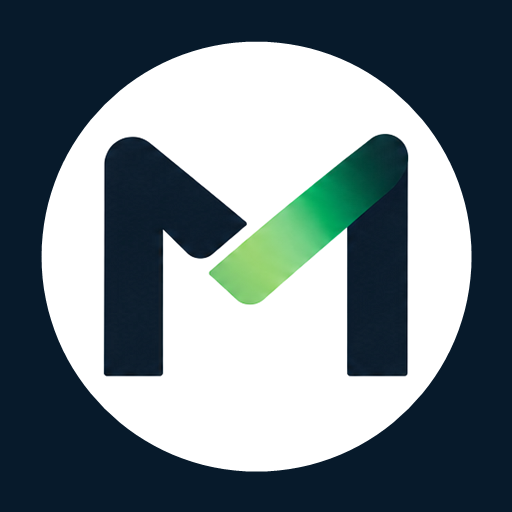
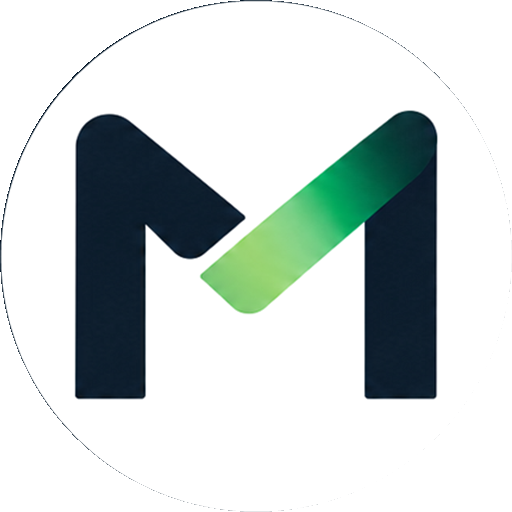
Update

diff --git a/web/src/landing/Navbar.tsx b/web/src/landing/Navbar.tsx
@@ -189,7 +189,7 @@ export default function Navbar() {
         <div className="relative flex items-center px-4 h-16 lg:h-20 gap-2.5">
           {/* Logo */}
           <Link to="/" onClick={closeSearch} className="shrink-0">
-            <img src={LOGO} alt="Majo Gadgets" className="h-11 w-auto" />
+            <img src={LOGO} alt="Majo Gadgets" className="h-11 w-11 rounded-full object-cover mix-blend-multiply" />
           </Link>
 
           {/* Search pill / active */}

diff --git a/web/public/sw.js b/web/public/sw.js
@@ -1,4 +1,4 @@
-const CACHE_NAME = 'majo-shell-v2'
+const CACHE_NAME = 'majo-shell-v3'
 const scopeUrl = new URL(self.registration.scope)
 const appUrl = new URL('./', scopeUrl)
 const manifestUrl = new URL('manifest.webmanifest', scopeUrl)
